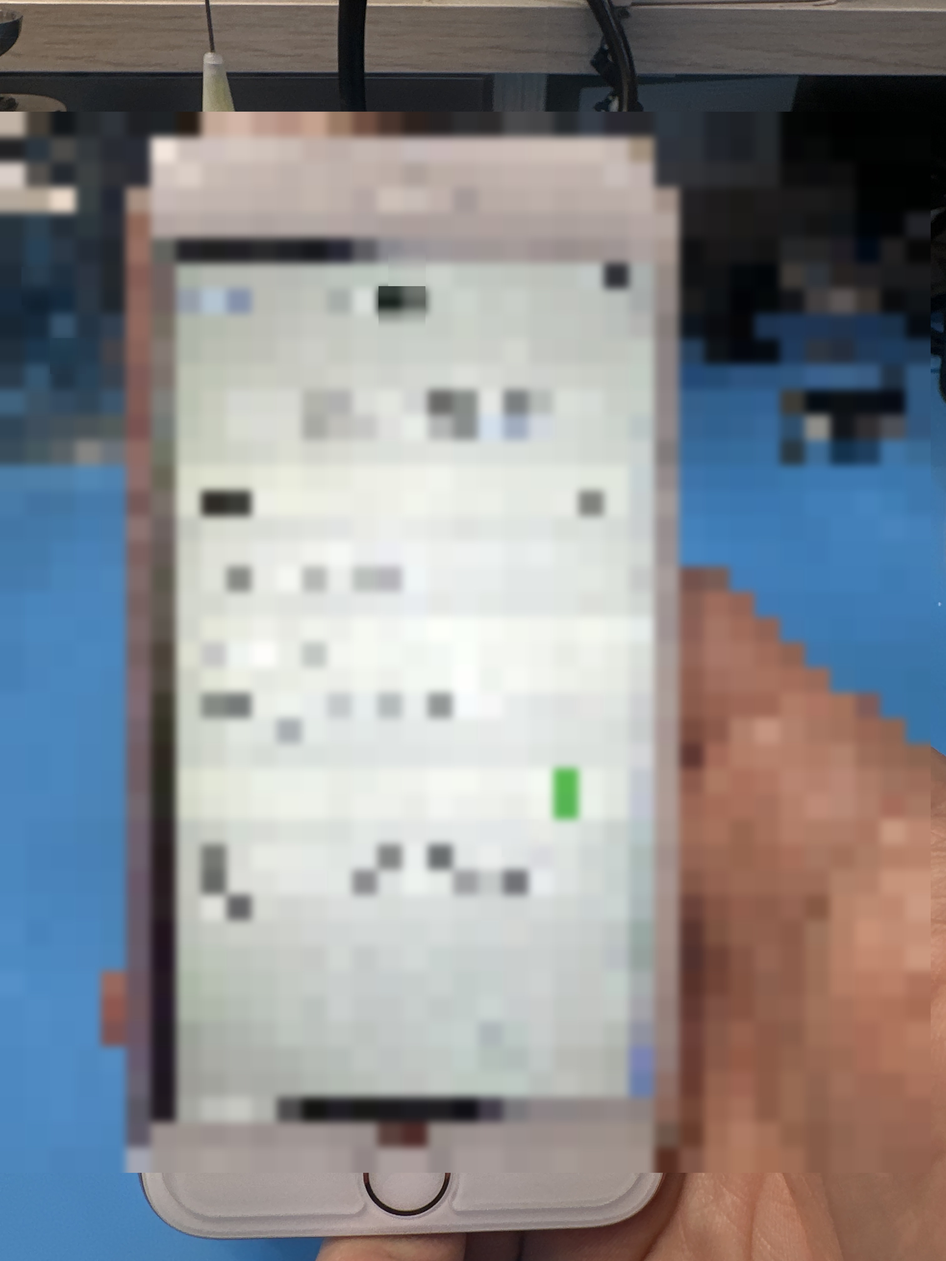
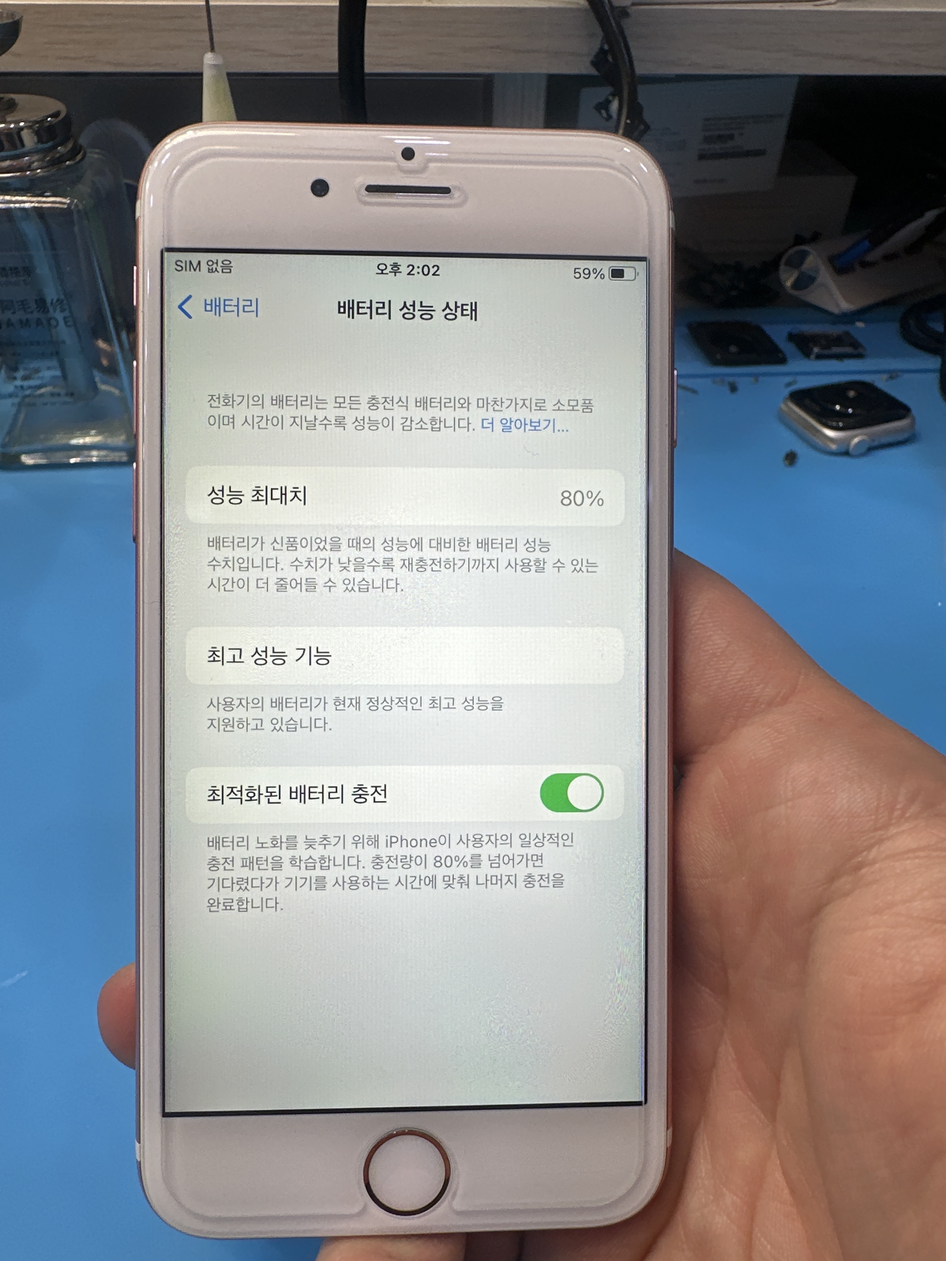
일지 정렬 정확화 — Drive createdTime 전체 timestamp 보존 + 13 비포 블러 제거
문제:
- 일지 정렬이 같은 날짜끼리 random하게 표시
- repair-stats.json에 createdTime이 저장 안 되어서 sort key가 YYYY-MM-DD만
- 가산 13 (5/9) 비포 사진에 불필요한 블러 (수리전 깨진 액정 사진은 원본 그대로가 OK)

수정:
1. update_repair_stats.py — portfolio_cases에 createdTime (full ISO timestamp) 저장
   → "2026-05-09T07:12:17.000Z" 같은 형식
   → 같은 날짜도 시간순 정렬 가능
2. gen_case_journals.py — 이미 uploaded_at 사용 중 (기존)
3. 가산 13 5/9 before.jpg — Drive 원본 다운로드 + EXIF 회전만 적용 (마스킹 X)
   → 깨진 액정 자연스럽게 표시
   → after.jpg는 OCR 자동 마스킹 유지 (1682일 위젯 가림)

diff --git a/articles/index.html b/articles/index.html
@@ -551,18 +551,6 @@
 
     
     <!-- ── AUTO: 수리 일지 (스크립트 자동 생성) ── -->
-    <a href="journal-2026-05-09-아이폰-iphone-11-screen-1z7zT5JR.html" class="article-card" data-cat="iphone" data-journal="true">
-      <div class="card-category">📋 수리 일지 · 신림점</div>
-      <div class="card-title">아이폰 iPhone 11 정품 액정 교체 — 20대 남성 손님이 신림점 방문한 사례</div>
-      <div class="card-desc">아이폰 iPhone 11 액정 교체 실제 사례. 같은 증상 검색하시는 분들께 도움 되는 진단·수리 과정 + Q&amp;A.</div>
-      <div class="card-meta"><span>금동평 대표</span><span>2026-05-09</span><span>신림점</span></div>
-    </a>
-    <a href="journal-2026-05-09-아이폰-13-screen-1SF2kXMS.html" class="article-card" data-cat="iphone" data-journal="true">
-      <div class="card-category">📋 수리 일지 · 가산점</div>
-      <div class="card-title">아이폰 13 액정 깨진 채로 며칠… 결국 30분 만에 끝난 다올리페어 가산점 후기</div>
-      <div class="card-desc">아이폰 13 액정 교체 실제 사례. 같은 증상 검색하시는 분들께 도움 되는 진단·수리 과정 + Q&amp;A.</div>
-      <div class="card-meta"><span>금동평 대표</span><span>2026-05-09</span><span>가산점</span></div>
-    </a>
     <a href="journal-2026-05-09-아이폰-iphone-x-battery-1DBkRFtC.html" class="article-card" data-cat="iphone" data-journal="true">
       <div class="card-category">📋 수리 일지 · 목동점</div>
       <div class="card-title">아이폰 iPhone X 자연 노화으로 망가진 30대 남성 손님 — 목동점에서 일반 호환 배터리 교체</div>
@@ -574,6 +562,18 @@
       <div class="card-title">20대 여성 손님 아이폰 iPhone 14 Pro — 후면유리과 일반 호환 배터리 선택해 신림점에서 후면 유리 교체</div>
       <div class="card-desc">아이폰 iPhone 14 Pro 후면 유리 교체 실제 사례. 같은 증상 검색하시는 분들께 도움 되는 진단·수리 과정 + Q&amp;A.</div>
       <div class="card-meta"><span>금동평 대표</span><span>2026-05-09</span><span>신림점</span></div>
+    </a>
+    <a href="journal-2026-05-09-아이폰-iphone-11-screen-1z7zT5JR.html" class="article-card" data-cat="iphone" data-journal="true">
+      <div class="card-category">📋 수리 일지 · 신림점</div>
+      <div class="card-title">아이폰 iPhone 11 정품 액정 교체 — 20대 남성 손님이 신림점 방문한 사례</div>
+      <div class="card-desc">아이폰 iPhone 11 액정 교체 실제 사례. 같은 증상 검색하시는 분들께 도움 되는 진단·수리 과정 + Q&amp;A.</div>
+      <div class="card-meta"><span>금동평 대표</span><span>2026-05-09</span><span>신림점</span></div>
+    </a>
+    <a href="journal-2026-05-09-아이폰-13-screen-1SF2kXMS.html" class="article-card" data-cat="iphone" data-journal="true">
+      <div class="card-category">📋 수리 일지 · 가산점</div>
+      <div class="card-title">아이폰 13 액정 깨진 채로 며칠… 결국 30분 만에 끝난 다올리페어 가산점 후기</div>
+      <div class="card-desc">아이폰 13 액정 교체 실제 사례. 같은 증상 검색하시는 분들께 도움 되는 진단·수리 과정 + Q&amp;A.</div>
+      <div class="card-meta"><span>금동평 대표</span><span>2026-05-09</span><span>가산점</span></div>
     </a>
     <a href="journal-2026-05-09-애플워치-apple-watch-se-2세대-battery-1eGfabMe.html" class="article-card" data-cat="watch" data-journal="true">
       <div class="card-category">📋 수리 일지 · 목동점</div>
@@ -629,16 +629,16 @@
       <div class="card-desc">아이폰6s 배터리 교체 실제 사례. 같은 증상 검색하시는 분들께 도움 되는 진단·수리 과정 + Q&amp;A.</div>
       <div class="card-meta"><span>금동평 대표</span><span>2026-05-05</span><span>가산점</span></div>
     </a>
-    <a href="journal-2026-05-04-아이폰-12프로-back-1Vv7RtlP.html" class="article-card" data-cat="iphone" data-journal="true">
-      <div class="card-category">📋 수리 일지 · 목동점</div>
-      <div class="card-title">맥세이프 충전기에서 미끄러진 아이폰 12프로, 후면 산산조각 → 다올리페어 목동점 진행기</div>
-      <div class="card-desc">아이폰 12프로 후면 유리 교체 실제 사례. 같은 증상 검색하시는 분들께 도움 되는 진단·수리 과정 + Q&amp;A.</div>
-      <div class="card-meta"><span>금동평 대표</span><span>2026-05-04</span><span>목동점</span></div>
-    </a>
     <a href="journal-2026-05-04-아이폰-12미니-battery-1CU7VD5l.html" class="article-card" data-cat="iphone" data-journal="true">
       <div class="card-category">📋 수리 일지 · 목동점</div>
       <div class="card-title">아이폰 12미니 배터리 70% 떨어진 지 반년 미루다 다올리페어 목동점에서 30분 만에 교체</div>
       <div class="card-desc">아이폰 12미니 배터리 교체 실제 사례. 같은 증상 검색하시는 분들께 도움 되는 진단·수리 과정 + Q&amp;A.</div>
+      <div class="card-meta"><span>금동평 대표</span><span>2026-05-04</span><span>목동점</span></div>
+    </a>
+    <a href="journal-2026-05-04-아이폰-12프로-back-1Vv7RtlP.html" class="article-card" data-cat="iphone" data-journal="true">
+      <div class="card-category">📋 수리 일지 · 목동점</div>
+      <div class="card-title">맥세이프 충전기에서 미끄러진 아이폰 12프로, 후면 산산조각 → 다올리페어 목동점 진행기</div>
+      <div class="card-desc">아이폰 12프로 후면 유리 교체 실제 사례. 같은 증상 검색하시는 분들께 도움 되는 진단·수리 과정 + Q&amp;A.</div>
       <div class="card-meta"><span>금동평 대표</span><span>2026-05-04</span><span>목동점</span></div>
     </a>
     <a href="journal-2026-05-04-아이폰-15프로-battery-1P0o4qDL.html" class="article-card" data-cat="iphone" data-journal="true">
@@ -653,16 +653,16 @@
       <div class="card-desc">아이폰 15프로 후면 유리 교체 실제 사례. 같은 증상 검색하시는 분들께 도움 되는 진단·수리 과정 + Q&amp;A.</div>
       <div class="card-meta"><span>금동평 대표</span><span>2026-05-01</span><span>신림점</span></div>
     </a>
-    <a href="journal-2026-04-30-아이폰-16프로-screen-1Qr6LX9H.html" class="article-card" data-cat="iphone" data-journal="true">
-      <div class="card-category">📋 수리 일지 · 목동점</div>
-      <div class="card-title">아이폰 16프로 액정 사설 수리 망설인 분께 — 다올리페어 목동점 실제 진행 과정</div>
-      <div class="card-desc">아이폰 16프로 액정 교체 실제 사례. 같은 증상 검색하시는 분들께 도움 되는 진단·수리 과정 + Q&amp;A.</div>
-      <div class="card-meta"><span>금동평 대표</span><span>2026-04-30</span><span>목동점</span></div>
-    </a>
     <a href="journal-2026-04-30-애플워치-se2-40mm-battery-1jbdaG3N.html" class="article-card" data-cat="watch" data-journal="true">
       <div class="card-category">📋 수리 일지 · 목동점</div>
       <div class="card-title">애플워치 SE2 40mm 배터리 사설 수리 무섭다고요? — 다올리페어 목동점 실제 진행 과정</div>
       <div class="card-desc">애플워치 SE2 40mm 배터리 교체 실제 사례. 같은 증상 검색하시는 분들께 도움 되는 진단·수리 과정 + Q&amp;A.</div>
+      <div class="card-meta"><span>금동평 대표</span><span>2026-04-30</span><span>목동점</span></div>
+    </a>
+    <a href="journal-2026-04-30-아이폰-16프로-screen-1Qr6LX9H.html" class="article-card" data-cat="iphone" data-journal="true">
+      <div class="card-category">📋 수리 일지 · 목동점</div>
+      <div class="card-title">아이폰 16프로 액정 사설 수리 망설인 분께 — 다올리페어 목동점 실제 진행 과정</div>
+      <div class="card-desc">아이폰 16프로 액정 교체 실제 사례. 같은 증상 검색하시는 분들께 도움 되는 진단·수리 과정 + Q&amp;A.</div>
       <div class="card-meta"><span>금동평 대표</span><span>2026-04-30</span><span>목동점</span></div>
     </a>
     <a href="journal-2026-04-29-아이폰-12-back-1NVppdC5.html" class="article-card" data-cat="iphone" data-journal="true">

diff --git a/dist/articles/index.html b/dist/articles/index.html
@@ -551,18 +551,6 @@
 
     
     <!-- ── AUTO: 수리 일지 (스크립트 자동 생성) ── -->
-    <a href="journal-2026-05-09-아이폰-iphone-11-screen-1z7zT5JR.html" class="article-card" data-cat="iphone" data-journal="true">
-      <div class="card-category">📋 수리 일지 · 신림점</div>
-      <div class="card-title">아이폰 iPhone 11 정품 액정 교체 — 20대 남성 손님이 신림점 방문한 사례</div>
-      <div class="card-desc">아이폰 iPhone 11 액정 교체 실제 사례. 같은 증상 검색하시는 분들께 도움 되는 진단·수리 과정 + Q&amp;A.</div>
-      <div class="card-meta"><span>금동평 대표</span><span>2026-05-09</span><span>신림점</span></div>
-    </a>
-    <a href="journal-2026-05-09-아이폰-13-screen-1SF2kXMS.html" class="article-card" data-cat="iphone" data-journal="true">
-      <div class="card-category">📋 수리 일지 · 가산점</div>
-      <div class="card-title">아이폰 13 액정 깨진 채로 며칠… 결국 30분 만에 끝난 다올리페어 가산점 후기</div>
-      <div class="card-desc">아이폰 13 액정 교체 실제 사례. 같은 증상 검색하시는 분들께 도움 되는 진단·수리 과정 + Q&amp;A.</div>
-      <div class="card-meta"><span>금동평 대표</span><span>2026-05-09</span><span>가산점</span></div>
-    </a>
     <a href="journal-2026-05-09-아이폰-iphone-x-battery-1DBkRFtC.html" class="article-card" data-cat="iphone" data-journal="true">
       <div class="card-category">📋 수리 일지 · 목동점</div>
       <div class="card-title">아이폰 iPhone X 자연 노화으로 망가진 30대 남성 손님 — 목동점에서 일반 호환 배터리 교체</div>
@@ -574,6 +562,18 @@
       <div class="card-title">20대 여성 손님 아이폰 iPhone 14 Pro — 후면유리과 일반 호환 배터리 선택해 신림점에서 후면 유리 교체</div>
       <div class="card-desc">아이폰 iPhone 14 Pro 후면 유리 교체 실제 사례. 같은 증상 검색하시는 분들께 도움 되는 진단·수리 과정 + Q&amp;A.</div>
       <div class="card-meta"><span>금동평 대표</span><span>2026-05-09</span><span>신림점</span></div>
+    </a>
+    <a href="journal-2026-05-09-아이폰-iphone-11-screen-1z7zT5JR.html" class="article-card" data-cat="iphone" data-journal="true">
+      <div class="card-category">📋 수리 일지 · 신림점</div>
+      <div class="card-title">아이폰 iPhone 11 정품 액정 교체 — 20대 남성 손님이 신림점 방문한 사례</div>
+      <div class="card-desc">아이폰 iPhone 11 액정 교체 실제 사례. 같은 증상 검색하시는 분들께 도움 되는 진단·수리 과정 + Q&amp;A.</div>
+      <div class="card-meta"><span>금동평 대표</span><span>2026-05-09</span><span>신림점</span></div>
+    </a>
+    <a href="journal-2026-05-09-아이폰-13-screen-1SF2kXMS.html" class="article-card" data-cat="iphone" data-journal="true">
+      <div class="card-category">📋 수리 일지 · 가산점</div>
+      <div class="card-title">아이폰 13 액정 깨진 채로 며칠… 결국 30분 만에 끝난 다올리페어 가산점 후기</div>
+      <div class="card-desc">아이폰 13 액정 교체 실제 사례. 같은 증상 검색하시는 분들께 도움 되는 진단·수리 과정 + Q&amp;A.</div>
+      <div class="card-meta"><span>금동평 대표</span><span>2026-05-09</span><span>가산점</span></div>
     </a>
     <a href="journal-2026-05-09-애플워치-apple-watch-se-2세대-battery-1eGfabMe.html" class="article-card" data-cat="watch" data-journal="true">
       <div class="card-category">📋 수리 일지 · 목동점</div>
@@ -629,16 +629,16 @@
       <div class="card-desc">아이폰6s 배터리 교체 실제 사례. 같은 증상 검색하시는 분들께 도움 되는 진단·수리 과정 + Q&amp;A.</div>
       <div class="card-meta"><span>금동평 대표</span><span>2026-05-05</span><span>가산점</span></div>
     </a>
-    <a href="journal-2026-05-04-아이폰-12프로-back-1Vv7RtlP.html" class="article-card" data-cat="iphone" data-journal="true">
-      <div class="card-category">📋 수리 일지 · 목동점</div>
-      <div class="card-title">맥세이프 충전기에서 미끄러진 아이폰 12프로, 후면 산산조각 → 다올리페어 목동점 진행기</div>
-      <div class="card-desc">아이폰 12프로 후면 유리 교체 실제 사례. 같은 증상 검색하시는 분들께 도움 되는 진단·수리 과정 + Q&amp;A.</div>
-      <div class="card-meta"><span>금동평 대표</span><span>2026-05-04</span><span>목동점</span></div>
-    </a>
     <a href="journal-2026-05-04-아이폰-12미니-battery-1CU7VD5l.html" class="article-card" data-cat="iphone" data-journal="true">
       <div class="card-category">📋 수리 일지 · 목동점</div>
       <div class="card-title">아이폰 12미니 배터리 70% 떨어진 지 반년 미루다 다올리페어 목동점에서 30분 만에 교체</div>
       <div class="card-desc">아이폰 12미니 배터리 교체 실제 사례. 같은 증상 검색하시는 분들께 도움 되는 진단·수리 과정 + Q&amp;A.</div>
+      <div class="card-meta"><span>금동평 대표</span><span>2026-05-04</span><span>목동점</span></div>
+    </a>
+    <a href="journal-2026-05-04-아이폰-12프로-back-1Vv7RtlP.html" class="article-card" data-cat="iphone" data-journal="true">
+      <div class="card-category">📋 수리 일지 · 목동점</div>
+      <div class="card-title">맥세이프 충전기에서 미끄러진 아이폰 12프로, 후면 산산조각 → 다올리페어 목동점 진행기</div>
+      <div class="card-desc">아이폰 12프로 후면 유리 교체 실제 사례. 같은 증상 검색하시는 분들께 도움 되는 진단·수리 과정 + Q&amp;A.</div>
       <div class="card-meta"><span>금동평 대표</span><span>2026-05-04</span><span>목동점</span></div>
     </a>
     <a href="journal-2026-05-04-아이폰-15프로-battery-1P0o4qDL.html" class="article-card" data-cat="iphone" data-journal="true">
@@ -653,16 +653,16 @@
       <div class="card-desc">아이폰 15프로 후면 유리 교체 실제 사례. 같은 증상 검색하시는 분들께 도움 되는 진단·수리 과정 + Q&amp;A.</div>
       <div class="card-meta"><span>금동평 대표</span><span>2026-05-01</span><span>신림점</span></div>
     </a>
-    <a href="journal-2026-04-30-아이폰-16프로-screen-1Qr6LX9H.html" class="article-card" data-cat="iphone" data-journal="true">
-      <div class="card-category">📋 수리 일지 · 목동점</div>
-      <div class="card-title">아이폰 16프로 액정 사설 수리 망설인 분께 — 다올리페어 목동점 실제 진행 과정</div>
-      <div class="card-desc">아이폰 16프로 액정 교체 실제 사례. 같은 증상 검색하시는 분들께 도움 되는 진단·수리 과정 + Q&amp;A.</div>
-      <div class="card-meta"><span>금동평 대표</span><span>2026-04-30</span><span>목동점</span></div>
-    </a>
     <a href="journal-2026-04-30-애플워치-se2-40mm-battery-1jbdaG3N.html" class="article-card" data-cat="watch" data-journal="true">
       <div class="card-category">📋 수리 일지 · 목동점</div>
       <div class="card-title">애플워치 SE2 40mm 배터리 사설 수리 무섭다고요? — 다올리페어 목동점 실제 진행 과정</div>
       <div class="card-desc">애플워치 SE2 40mm 배터리 교체 실제 사례. 같은 증상 검색하시는 분들께 도움 되는 진단·수리 과정 + Q&amp;A.</div>
+      <div class="card-meta"><span>금동평 대표</span><span>2026-04-30</span><span>목동점</span></div>
+    </a>
+    <a href="journal-2026-04-30-아이폰-16프로-screen-1Qr6LX9H.html" class="article-card" data-cat="iphone" data-journal="true">
+      <div class="card-category">📋 수리 일지 · 목동점</div>
+      <div class="card-title">아이폰 16프로 액정 사설 수리 망설인 분께 — 다올리페어 목동점 실제 진행 과정</div>
+      <div class="card-desc">아이폰 16프로 액정 교체 실제 사례. 같은 증상 검색하시는 분들께 도움 되는 진단·수리 과정 + Q&amp;A.</div>
       <div class="card-meta"><span>금동평 대표</span><span>2026-04-30</span><span>목동점</span></div>
     </a>
     <a href="journal-2026-04-29-아이폰-12-back-1NVppdC5.html" class="article-card" data-cat="iphone" data-journal="true">

diff --git a/articles/journal.html b/articles/journal.html
@@ -85,16 +85,6 @@
   </div>
 
   <div class="hub-grid" id="journalGrid">
-    <a href="journal-2026-05-09-아이폰-iphone-11-screen-1z7zT5JR.html" class="hub-card" data-cat="iphone">
-      <div style="font-size:11px;color:#E8732A;font-weight:800;letter-spacing:0.5px;margin-bottom:8px;">📋 신림점 · 2026-05-09</div>
-      <div class="hub-card-title">아이폰 iPhone 11 정품 액정 교체 — 20대 남성 손님이 신림점 방문한 사례</div>
-      <div class="hub-card-desc">아이폰 iPhone 11 액정 교체 실제 사례 — 같은 증상 검색하시는 분께 도움 되는 진단·수리 과정 + Q&amp;A.</div>
-    </a>
-    <a href="journal-2026-05-09-아이폰-13-screen-1SF2kXMS.html" class="hub-card" data-cat="iphone">
-      <div style="font-size:11px;color:#E8732A;font-weight:800;letter-spacing:0.5px;margin-bottom:8px;">📋 가산점 · 2026-05-09</div>
-      <div class="hub-card-title">아이폰 13 액정 깨진 채로 며칠… 결국 30분 만에 끝난 다올리페어 가산점 후기</div>
-      <div class="hub-card-desc">아이폰 13 액정 교체 실제 사례 — 같은 증상 검색하시는 분께 도움 되는 진단·수리 과정 + Q&amp;A.</div>
-    </a>
     <a href="journal-2026-05-09-아이폰-iphone-x-battery-1DBkRFtC.html" class="hub-card" data-cat="iphone">
       <div style="font-size:11px;color:#E8732A;font-weight:800;letter-spacing:0.5px;margin-bottom:8px;">📋 목동점 · 2026-05-09</div>
       <div class="hub-card-title">아이폰 iPhone X 자연 노화으로 망가진 30대 남성 손님 — 목동점에서 일반 호환 배터리 교체</div>
@@ -104,6 +94,16 @@
       <div style="font-size:11px;color:#E8732A;font-weight:800;letter-spacing:0.5px;margin-bottom:8px;">📋 신림점 · 2026-05-09</div>
       <div class="hub-card-title">20대 여성 손님 아이폰 iPhone 14 Pro — 후면유리과 일반 호환 배터리 선택해 신림점에서 후면 유리 교체</div>
       <div class="hub-card-desc">아이폰 iPhone 14 Pro 후면 유리 교체 실제 사례 — 같은 증상 검색하시는 분께 도움 되는 진단·수리 과정 + Q&amp;A.</div>
+    </a>
+    <a href="journal-2026-05-09-아이폰-iphone-11-screen-1z7zT5JR.html" class="hub-card" data-cat="iphone">
+      <div style="font-size:11px;color:#E8732A;font-weight:800;letter-spacing:0.5px;margin-bottom:8px;">📋 신림점 · 2026-05-09</div>
+      <div class="hub-card-title">아이폰 iPhone 11 정품 액정 교체 — 20대 남성 손님이 신림점 방문한 사례</div>
+      <div class="hub-card-desc">아이폰 iPhone 11 액정 교체 실제 사례 — 같은 증상 검색하시는 분께 도움 되는 진단·수리 과정 + Q&amp;A.</div>
+    </a>
+    <a href="journal-2026-05-09-아이폰-13-screen-1SF2kXMS.html" class="hub-card" data-cat="iphone">
+      <div style="font-size:11px;color:#E8732A;font-weight:800;letter-spacing:0.5px;margin-bottom:8px;">📋 가산점 · 2026-05-09</div>
+      <div class="hub-card-title">아이폰 13 액정 깨진 채로 며칠… 결국 30분 만에 끝난 다올리페어 가산점 후기</div>
+      <div class="hub-card-desc">아이폰 13 액정 교체 실제 사례 — 같은 증상 검색하시는 분께 도움 되는 진단·수리 과정 + Q&amp;A.</div>
     </a>
     <a href="journal-2026-05-09-아이폰-iphone-13-pro-max-back-1iXABiV6.html" class="hub-card" data-cat="iphone">
       <div style="font-size:11px;color:#E8732A;font-weight:800;letter-spacing:0.5px;margin-bottom:8px;">📋 신림점 · 2026-05-09</div>
@@ -140,15 +140,15 @@
       <div class="hub-card-title">아이폰6s 배터리 교체 — 30분이면 새 배터리로 (다올리페어 가산점)</div>
       <div class="hub-card-desc">아이폰6s 배터리 교체 실제 사례 — 같은 증상 검색하시는 분께 도움 되는 진단·수리 과정 + Q&amp;A.</div>
     </a>
-    <a href="journal-2026-05-04-아이폰-12프로-back-1Vv7RtlP.html" class="hub-card" data-cat="iphone">
-      <div style="font-size:11px;color:#E8732A;font-weight:800;letter-spacing:0.5px;margin-bottom:8px;">📋 목동점 · 2026-05-04</div>
-      <div class="hub-card-title">맥세이프 충전기에서 미끄러진 아이폰 12프로, 후면 산산조각 → 다올리페어 목동점 진행기</div>
-      <div class="hub-card-desc">아이폰 12프로 후면 유리 교체 실제 사례 — 같은 증상 검색하시는 분께 도움 되는 진단·수리 과정 + Q&amp;A.</div>
-    </a>
     <a href="journal-2026-05-04-아이폰-12미니-battery-1CU7VD5l.html" class="hub-card" data-cat="iphone">
       <div style="font-size:11px;color:#E8732A;font-weight:800;letter-spacing:0.5px;margin-bottom:8px;">📋 목동점 · 2026-05-04</div>
       <div class="hub-card-title">아이폰 12미니 배터리 70% 떨어진 지 반년 미루다 다올리페어 목동점에서 30분 만에 교체</div>
       <div class="hub-card-desc">아이폰 12미니 배터리 교체 실제 사례 — 같은 증상 검색하시는 분께 도움 되는 진단·수리 과정 + Q&amp;A.</div>
+    </a>
+    <a href="journal-2026-05-04-아이폰-12프로-back-1Vv7RtlP.html" class="hub-card" data-cat="iphone">
+      <div style="font-size:11px;color:#E8732A;font-weight:800;letter-spacing:0.5px;margin-bottom:8px;">📋 목동점 · 2026-05-04</div>
+      <div class="hub-card-title">맥세이프 충전기에서 미끄러진 아이폰 12프로, 후면 산산조각 → 다올리페어 목동점 진행기</div>
+      <div class="hub-card-desc">아이폰 12프로 후면 유리 교체 실제 사례 — 같은 증상 검색하시는 분께 도움 되는 진단·수리 과정 + Q&amp;A.</div>
     </a>
     <a href="journal-2026-05-04-아이폰-15프로-battery-1P0o4qDL.html" class="hub-card" data-cat="iphone">
       <div style="font-size:11px;color:#E8732A;font-weight:800;letter-spacing:0.5px;margin-bottom:8px;">📋 목동점 · 2026-05-04</div>

diff --git a/dist/articles/journal.html b/dist/articles/journal.html
@@ -85,16 +85,6 @@
   </div>
 
   <div class="hub-grid" id="journalGrid">
-    <a href="journal-2026-05-09-아이폰-iphone-11-screen-1z7zT5JR.html" class="hub-card" data-cat="iphone">
-      <div style="font-size:11px;color:#E8732A;font-weight:800;letter-spacing:0.5px;margin-bottom:8px;">📋 신림점 · 2026-05-09</div>
-      <div class="hub-card-title">아이폰 iPhone 11 정품 액정 교체 — 20대 남성 손님이 신림점 방문한 사례</div>
-      <div class="hub-card-desc">아이폰 iPhone 11 액정 교체 실제 사례 — 같은 증상 검색하시는 분께 도움 되는 진단·수리 과정 + Q&amp;A.</div>
-    </a>
-    <a href="journal-2026-05-09-아이폰-13-screen-1SF2kXMS.html" class="hub-card" data-cat="iphone">
-      <div style="font-size:11px;color:#E8732A;font-weight:800;letter-spacing:0.5px;margin-bottom:8px;">📋 가산점 · 2026-05-09</div>
-      <div class="hub-card-title">아이폰 13 액정 깨진 채로 며칠… 결국 30분 만에 끝난 다올리페어 가산점 후기</div>
-      <div class="hub-card-desc">아이폰 13 액정 교체 실제 사례 — 같은 증상 검색하시는 분께 도움 되는 진단·수리 과정 + Q&amp;A.</div>
-    </a>
     <a href="journal-2026-05-09-아이폰-iphone-x-battery-1DBkRFtC.html" class="hub-card" data-cat="iphone">
       <div style="font-size:11px;color:#E8732A;font-weight:800;letter-spacing:0.5px;margin-bottom:8px;">📋 목동점 · 2026-05-09</div>
       <div class="hub-card-title">아이폰 iPhone X 자연 노화으로 망가진 30대 남성 손님 — 목동점에서 일반 호환 배터리 교체</div>
@@ -104,6 +94,16 @@
       <div style="font-size:11px;color:#E8732A;font-weight:800;letter-spacing:0.5px;margin-bottom:8px;">📋 신림점 · 2026-05-09</div>
       <div class="hub-card-title">20대 여성 손님 아이폰 iPhone 14 Pro — 후면유리과 일반 호환 배터리 선택해 신림점에서 후면 유리 교체</div>
       <div class="hub-card-desc">아이폰 iPhone 14 Pro 후면 유리 교체 실제 사례 — 같은 증상 검색하시는 분께 도움 되는 진단·수리 과정 + Q&amp;A.</div>
+    </a>
+    <a href="journal-2026-05-09-아이폰-iphone-11-screen-1z7zT5JR.html" class="hub-card" data-cat="iphone">
+      <div style="font-size:11px;color:#E8732A;font-weight:800;letter-spacing:0.5px;margin-bottom:8px;">📋 신림점 · 2026-05-09</div>
+      <div class="hub-card-title">아이폰 iPhone 11 정품 액정 교체 — 20대 남성 손님이 신림점 방문한 사례</div>
+      <div class="hub-card-desc">아이폰 iPhone 11 액정 교체 실제 사례 — 같은 증상 검색하시는 분께 도움 되는 진단·수리 과정 + Q&amp;A.</div>
+    </a>
+    <a href="journal-2026-05-09-아이폰-13-screen-1SF2kXMS.html" class="hub-card" data-cat="iphone">
+      <div style="font-size:11px;color:#E8732A;font-weight:800;letter-spacing:0.5px;margin-bottom:8px;">📋 가산점 · 2026-05-09</div>
+      <div class="hub-card-title">아이폰 13 액정 깨진 채로 며칠… 결국 30분 만에 끝난 다올리페어 가산점 후기</div>
+      <div class="hub-card-desc">아이폰 13 액정 교체 실제 사례 — 같은 증상 검색하시는 분께 도움 되는 진단·수리 과정 + Q&amp;A.</div>
     </a>
     <a href="journal-2026-05-09-아이폰-iphone-13-pro-max-back-1iXABiV6.html" class="hub-card" data-cat="iphone">
       <div style="font-size:11px;color:#E8732A;font-weight:800;letter-spacing:0.5px;margin-bottom:8px;">📋 신림점 · 2026-05-09</div>
@@ -140,15 +140,15 @@
       <div class="hub-card-title">아이폰6s 배터리 교체 — 30분이면 새 배터리로 (다올리페어 가산점)</div>
       <div class="hub-card-desc">아이폰6s 배터리 교체 실제 사례 — 같은 증상 검색하시는 분께 도움 되는 진단·수리 과정 + Q&amp;A.</div>
     </a>
-    <a href="journal-2026-05-04-아이폰-12프로-back-1Vv7RtlP.html" class="hub-card" data-cat="iphone">
-      <div style="font-size:11px;color:#E8732A;font-weight:800;letter-spacing:0.5px;margin-bottom:8px;">📋 목동점 · 2026-05-04</div>
-      <div class="hub-card-title">맥세이프 충전기에서 미끄러진 아이폰 12프로, 후면 산산조각 → 다올리페어 목동점 진행기</div>
-      <div class="hub-card-desc">아이폰 12프로 후면 유리 교체 실제 사례 — 같은 증상 검색하시는 분께 도움 되는 진단·수리 과정 + Q&amp;A.</div>
-    </a>
     <a href="journal-2026-05-04-아이폰-12미니-battery-1CU7VD5l.html" class="hub-card" data-cat="iphone">
       <div style="font-size:11px;color:#E8732A;font-weight:800;letter-spacing:0.5px;margin-bottom:8px;">📋 목동점 · 2026-05-04</div>
       <div class="hub-card-title">아이폰 12미니 배터리 70% 떨어진 지 반년 미루다 다올리페어 목동점에서 30분 만에 교체</div>
       <div class="hub-card-desc">아이폰 12미니 배터리 교체 실제 사례 — 같은 증상 검색하시는 분께 도움 되는 진단·수리 과정 + Q&amp;A.</div>
+    </a>
+    <a href="journal-2026-05-04-아이폰-12프로-back-1Vv7RtlP.html" class="hub-card" data-cat="iphone">
+      <div style="font-size:11px;color:#E8732A;font-weight:800;letter-spacing:0.5px;margin-bottom:8px;">📋 목동점 · 2026-05-04</div>
+      <div class="hub-card-title">맥세이프 충전기에서 미끄러진 아이폰 12프로, 후면 산산조각 → 다올리페어 목동점 진행기</div>
+      <div class="hub-card-desc">아이폰 12프로 후면 유리 교체 실제 사례 — 같은 증상 검색하시는 분께 도움 되는 진단·수리 과정 + Q&amp;A.</div>
     </a>
     <a href="journal-2026-05-04-아이폰-15프로-battery-1P0o4qDL.html" class="hub-card" data-cat="iphone">
       <div style="font-size:11px;color:#E8732A;font-weight:800;letter-spacing:0.5px;margin-bottom:8px;">📋 목동점 · 2026-05-04</div>

diff --git a/scripts/update_repair_stats.py b/scripts/update_repair_stats.py
@@ -723,6 +723,8 @@ def main():
             "type": TYPE_LABELS.get(c["repair_type"], "수리"),
             "branch": c["branch"],
             "date": display_date,
+            # Drive 업로드 시각 (full ISO timestamp) — 일지 정렬 기준 (같은 날짜도 시간순 구분)
+            "createdTime": c.get("createdTime", ""),
             "repair_time": TIME_BY_TYPE.get(c["repair_type"], "진단 후 안내"),
             "before_img": f"images/before-after/{folder_id}/before.jpg",
             "after_img":  f"images/before-after/{folder_id}/after.jpg",
